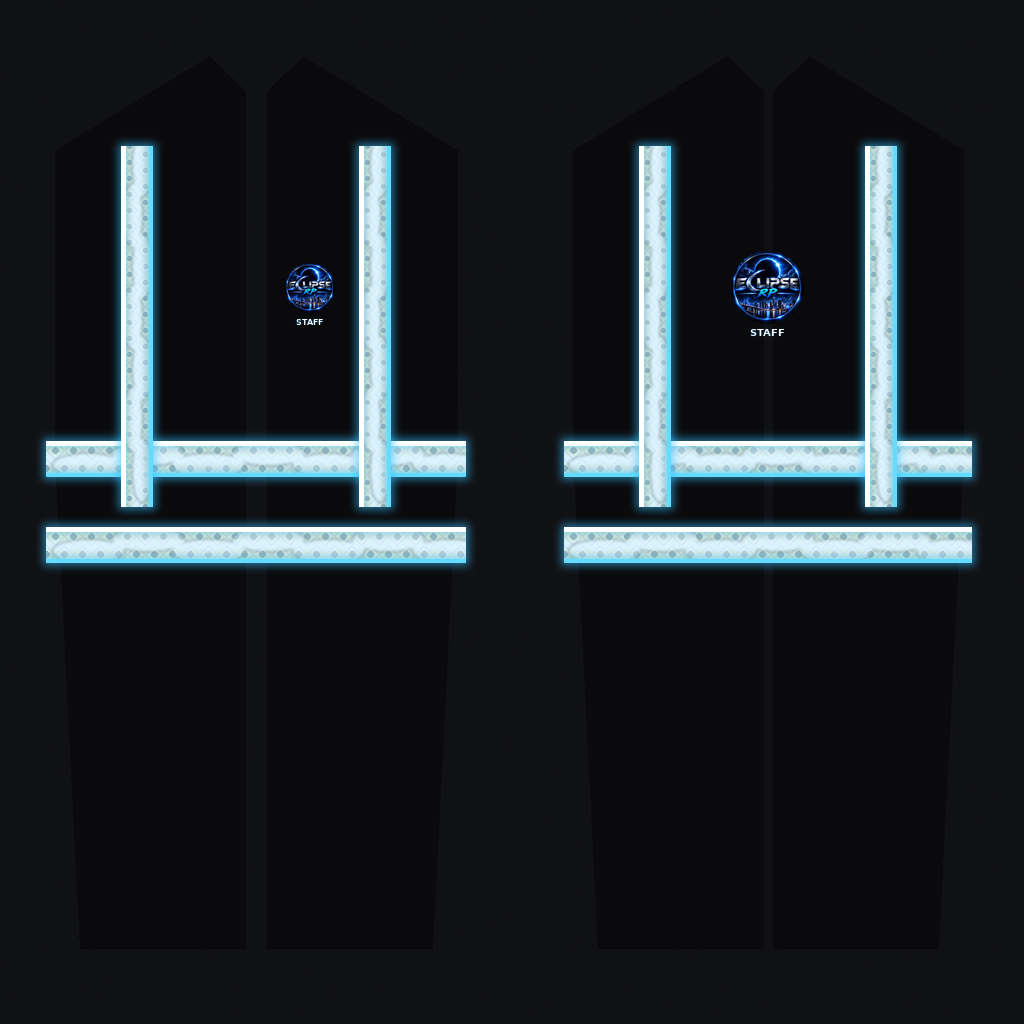
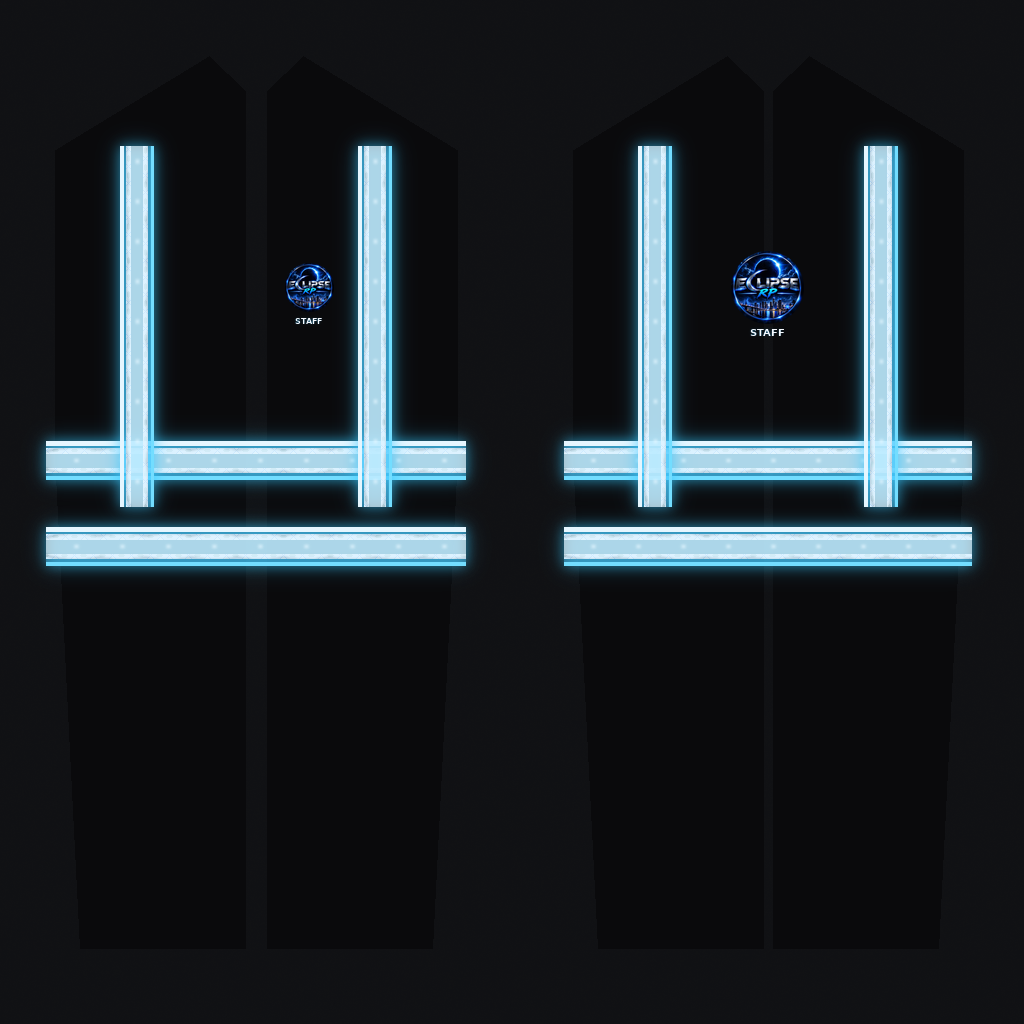
Refresh vest demo page with latest reflective textures
Update demo HTML and assets so mockup, YTD extract, reflector
closeups, specular map, and logos can be reviewed locally.

Changed region(s): [[0.0312, 0.125, 0.4688, 0.5625], [0.5312, 0.125, 0.9688, 0.5625]]

diff --git a/eclipse-rp-staff-vest/demo/index.html b/eclipse-rp-staff-vest/demo/index.html
@@ -3,169 +3,87 @@
 <head>
   <meta charset="utf-8" />
   <meta name="viewport" content="width=device-width, initial-scale=1" />
-  <title>Eclipse RP Staff Vest — YTD Demo</title>
-  <link rel="preconnect" href="https://fonts.googleapis.com" />
-  <link rel="preconnect" href="https://fonts.gstatic.com" crossorigin />
+  <title>Eclipse RP Staff Vest — Demo</title>
   <link href="https://fonts.googleapis.com/css2?family=Orbitron:wght@500;700&family=Manrope:wght@400;600;700&display=swap" rel="stylesheet" />
   <style>
     :root {
-      --bg0: #05070d;
-      --bg1: #0b1220;
-      --cyan: #3ec7ff;
-      --text: #e8eef8;
-      --muted: #8b9bb3;
-      --line: rgba(62, 199, 255, 0.22);
+      --bg0:#05070d; --bg1:#0b1220; --cyan:#3ec7ff; --text:#e8eef8; --muted:#8b9bb3;
+      --line:rgba(62,199,255,.22);
     }
-    * { box-sizing: border-box; }
-    body {
-      margin: 0;
-      min-height: 100vh;
-      color: var(--text);
-      font-family: Manrope, sans-serif;
-      background:
-        radial-gradient(1200px 600px at 20% -10%, rgba(40, 140, 255, 0.28), transparent 55%),
-        radial-gradient(900px 500px at 90% 10%, rgba(0, 220, 255, 0.12), transparent 50%),
-        linear-gradient(180deg, var(--bg1), var(--bg0));
+    *{box-sizing:border-box}
+    body{
+      margin:0;min-height:100vh;color:var(--text);font-family:Manrope,sans-serif;
+      background:radial-gradient(1200px 600px at 20% -10%,rgba(40,140,255,.28),transparent 55%),
+                 radial-gradient(900px 500px at 90% 10%,rgba(0,220,255,.12),transparent 50%),
+                 linear-gradient(180deg,var(--bg1),var(--bg0));
     }
-    .wrap { max-width: 1180px; margin: 0 auto; padding: 40px 24px 64px; }
-    .brand {
-      font-family: Orbitron, sans-serif;
-      font-size: clamp(1.6rem, 4vw, 2.6rem);
-      letter-spacing: 0.08em;
-      margin: 0 0 8px;
-      text-shadow: 0 0 24px rgba(62, 199, 255, 0.45);
-    }
-    .sub { color: var(--muted); margin: 0 0 28px; max-width: 56ch; line-height: 1.5; }
-    .badge {
-      display: inline-flex;
-      gap: 8px;
-      align-items: center;
-      border: 1px solid var(--line);
-      color: var(--cyan);
-      padding: 6px 12px;
-      border-radius: 999px;
-      font-size: 0.78rem;
-      letter-spacing: 0.06em;
-      text-transform: uppercase;
-      margin-bottom: 18px;
-      background: rgba(62, 199, 255, 0.06);
-    }
-    .grid {
-      display: grid;
-      grid-template-columns: 1.05fr 1fr;
-      gap: 22px;
-    }
-    @media (max-width: 900px) { .grid { grid-template-columns: 1fr; } }
-    .panel {
-      border: 1px solid var(--line);
-      background: rgba(8, 14, 24, 0.72);
-      backdrop-filter: blur(8px);
-      border-radius: 18px;
-      overflow: hidden;
-      box-shadow: 0 20px 50px rgba(0, 0, 0, 0.35);
-    }
-    .panel h2 {
-      margin: 0;
-      padding: 14px 16px;
-      font-size: 0.92rem;
-      letter-spacing: 0.04em;
-      border-bottom: 1px solid var(--line);
-      color: var(--cyan);
-      font-family: Orbitron, sans-serif;
-    }
-    .panel img {
-      display: block;
-      width: 100%;
-      height: auto;
-      background: #000;
-    }
-    .assets {
-      margin-top: 22px;
-      display: grid;
-      grid-template-columns: repeat(4, 1fr);
-      gap: 14px;
-    }
-    @media (max-width: 900px) { .assets { grid-template-columns: 1fr 1fr; } }
-    .asset {
-      border: 1px solid var(--line);
-      border-radius: 14px;
-      overflow: hidden;
-      background: rgba(8, 14, 24, 0.72);
-    }
-    .asset img { width: 100%; aspect-ratio: 1; object-fit: contain; background: #000; display: block; }
-    .asset span {
-      display: block;
-      padding: 10px 12px;
-      font-size: 0.78rem;
-      color: var(--muted);
-      border-top: 1px solid var(--line);
-    }
-    .meta {
-      margin-top: 22px;
-      display: grid;
-      grid-template-columns: repeat(3, 1fr);
-      gap: 12px;
-    }
-    @media (max-width: 700px) { .meta { grid-template-columns: 1fr; } }
-    .meta div {
-      border: 1px solid var(--line);
-      border-radius: 14px;
-      padding: 14px 16px;
-      background: rgba(8, 14, 24, 0.55);
-    }
-    .meta strong { display: block; color: var(--cyan); font-size: 0.8rem; letter-spacing: 0.05em; margin-bottom: 6px; }
-    .meta code { color: var(--text); font-size: 0.86rem; word-break: break-all; }
+    .wrap{max-width:1180px;margin:0 auto;padding:36px 22px 72px}
+    .badge{display:inline-flex;gap:8px;align-items:center;border:1px solid var(--line);color:var(--cyan);
+      padding:6px 12px;border-radius:999px;font-size:.75rem;letter-spacing:.06em;text-transform:uppercase;
+      margin-bottom:16px;background:rgba(62,199,255,.06)}
+    .brand{font-family:Orbitron,sans-serif;font-size:clamp(1.6rem,4vw,2.5rem);letter-spacing:.08em;margin:0 0 8px;
+      text-shadow:0 0 24px rgba(62,199,255,.45)}
+    .sub{color:var(--muted);margin:0 0 28px;max-width:60ch;line-height:1.55}
+    .grid{display:grid;grid-template-columns:1fr 1fr;gap:18px}
+    @media(max-width:900px){.grid{grid-template-columns:1fr}}
+    .panel{border:1px solid var(--line);background:rgba(8,14,24,.72);border-radius:16px;overflow:hidden;
+      box-shadow:0 18px 40px rgba(0,0,0,.35)}
+    .panel h2{margin:0;padding:12px 14px;font-size:.88rem;letter-spacing:.04em;border-bottom:1px solid var(--line);
+      color:var(--cyan);font-family:Orbitron,sans-serif}
+    .panel img{display:block;width:100%;height:auto;background:#000}
+    .assets{margin-top:18px;display:grid;grid-template-columns:repeat(3,1fr);gap:14px}
+    @media(max-width:900px){.assets{grid-template-columns:1fr 1fr}}
+    .asset{border:1px solid var(--line);border-radius:14px;overflow:hidden;background:rgba(8,14,24,.72)}
+    .asset img{width:100%;aspect-ratio:1;object-fit:contain;background:#000;display:block}
+    .asset span{display:block;padding:10px 12px;font-size:.78rem;color:var(--muted);border-top:1px solid var(--line)}
+    .meta{margin-top:18px;display:grid;grid-template-columns:repeat(3,1fr);gap:12px}
+    @media(max-width:700px){.meta{grid-template-columns:1fr}}
+    .meta div{border:1px solid var(--line);border-radius:14px;padding:14px 16px;background:rgba(8,14,24,.55)}
+    .meta strong{display:block;color:var(--cyan);font-size:.78rem;letter-spacing:.05em;margin-bottom:6px}
+    .meta code{color:var(--text);font-size:.84rem;word-break:break-all}
   </style>
 </head>
 <body>
   <div class="wrap">
     <div class="badge">FiveM · YTD Demo · Eclipse RP</div>
     <h1 class="brand">STAFF VEST</h1>
-    <p class="sub">Demo van de gegenereerde texture dictionary: mockup → flat diffuse → geëxtraheerd uit de gestreamde <code>.ytd</code>.</p>
+    <p class="sub">Bekijk de mockup, de gestreamde texture (uit .ytd gehaald), reflectoren-closeup, logo’s en specular map.</p>
 
     <div class="grid">
       <section class="panel">
         <h2>1. Originele mockup</h2>
-        <img src="mockup.jpg" alt="Original Eclipse RP staff vest mockup" />
+        <img src="mockup.jpg" alt="Mockup" />
       </section>
       <section class="panel">
-        <h2>2. Uit YTD geëxtraheerd (bewijs round-trip)</h2>
-        <img src="extracted_from_ytd.png" alt="Texture extracted from streamed YTD" />
+        <h2>2. Uit YTD geëxtraheerd</h2>
+        <img src="extracted_from_ytd.png" alt="Extracted from YTD" />
+      </section>
+    </div>
+
+    <div class="grid" style="margin-top:18px">
+      <section class="panel">
+        <h2>3. Reflectoren close-up</h2>
+        <img src="closeup_reflectors.png" alt="Reflectors closeup" />
+      </section>
+      <section class="panel">
+        <h2>4. Specular map (glans)</h2>
+        <img src="vest_specular.png" alt="Specular map" />
       </section>
     </div>
 
     <div class="assets">
-      <div class="asset">
-        <img src="vest_diffuse_1024.png" alt="Diffuse 1024" />
-        <span>vest_diffuse_1024.png</span>
-      </div>
-      <div class="asset">
-        <img src="logo_back.png" alt="Back logo" />
-        <span>logo_back.png</span>
-      </div>
-      <div class="asset">
-        <img src="logo_front.png" alt="Front logo" />
-        <span>logo_front.png</span>
-      </div>
-      <div class="asset">
-        <img src="staff_text.png" alt="STAFF text" />
-        <span>staff_text.png</span>
-      </div>
+      <div class="asset"><img src="vest_diffuse_1024.png" alt="Diffuse" /><span>vest_diffuse_1024.png</span></div>
+      <div class="asset"><img src="logo_back.png" alt="Logo" /><span>logo_back.png</span></div>
+      <div class="asset"><img src="staff_text.png" alt="STAFF" /><span>staff_text.png</span></div>
+      <div class="asset"><img src="closeup_logo.png" alt="Logo closeup" /><span>logo close-up op vest</span></div>
+      <div class="asset"><img src="reflector_tile.png" alt="Tile" /><span>reflector_tile.png</span></div>
+      <div class="asset"><img src="logo_front.png" alt="Front logo" /><span>logo_front.png</span></div>
     </div>
 
     <div class="meta">
-      <div>
-        <strong>STREAM YTD</strong>
-        <code>mp_m_freemode_01^task_diff_001_a_uni.ytd</code>
-      </div>
-      <div>
-        <strong>INTERNE TEXTURE</strong>
-        <code>task_diff_001_a_uni · 1024×1024 · A8R8G8B8</code>
-      </div>
-      <div>
-        <strong>FORMAT</strong>
-        <code>RSC7 magic · GTA V / FiveM</code>
-      </div>
+      <div><strong>STREAM YTD</strong><code>mp_m_freemode_01^task_diff_001_a_uni.ytd</code></div>
+      <div><strong>INTERNE TEXTURE</strong><code>task_diff_001_a_uni · 1024×1024 · A8R8G8B8</code></div>
+      <div><strong>FORMAT</strong><code>RSC7 · reflectoren + specular alpha</code></div>
     </div>
   </div>
 </body>
